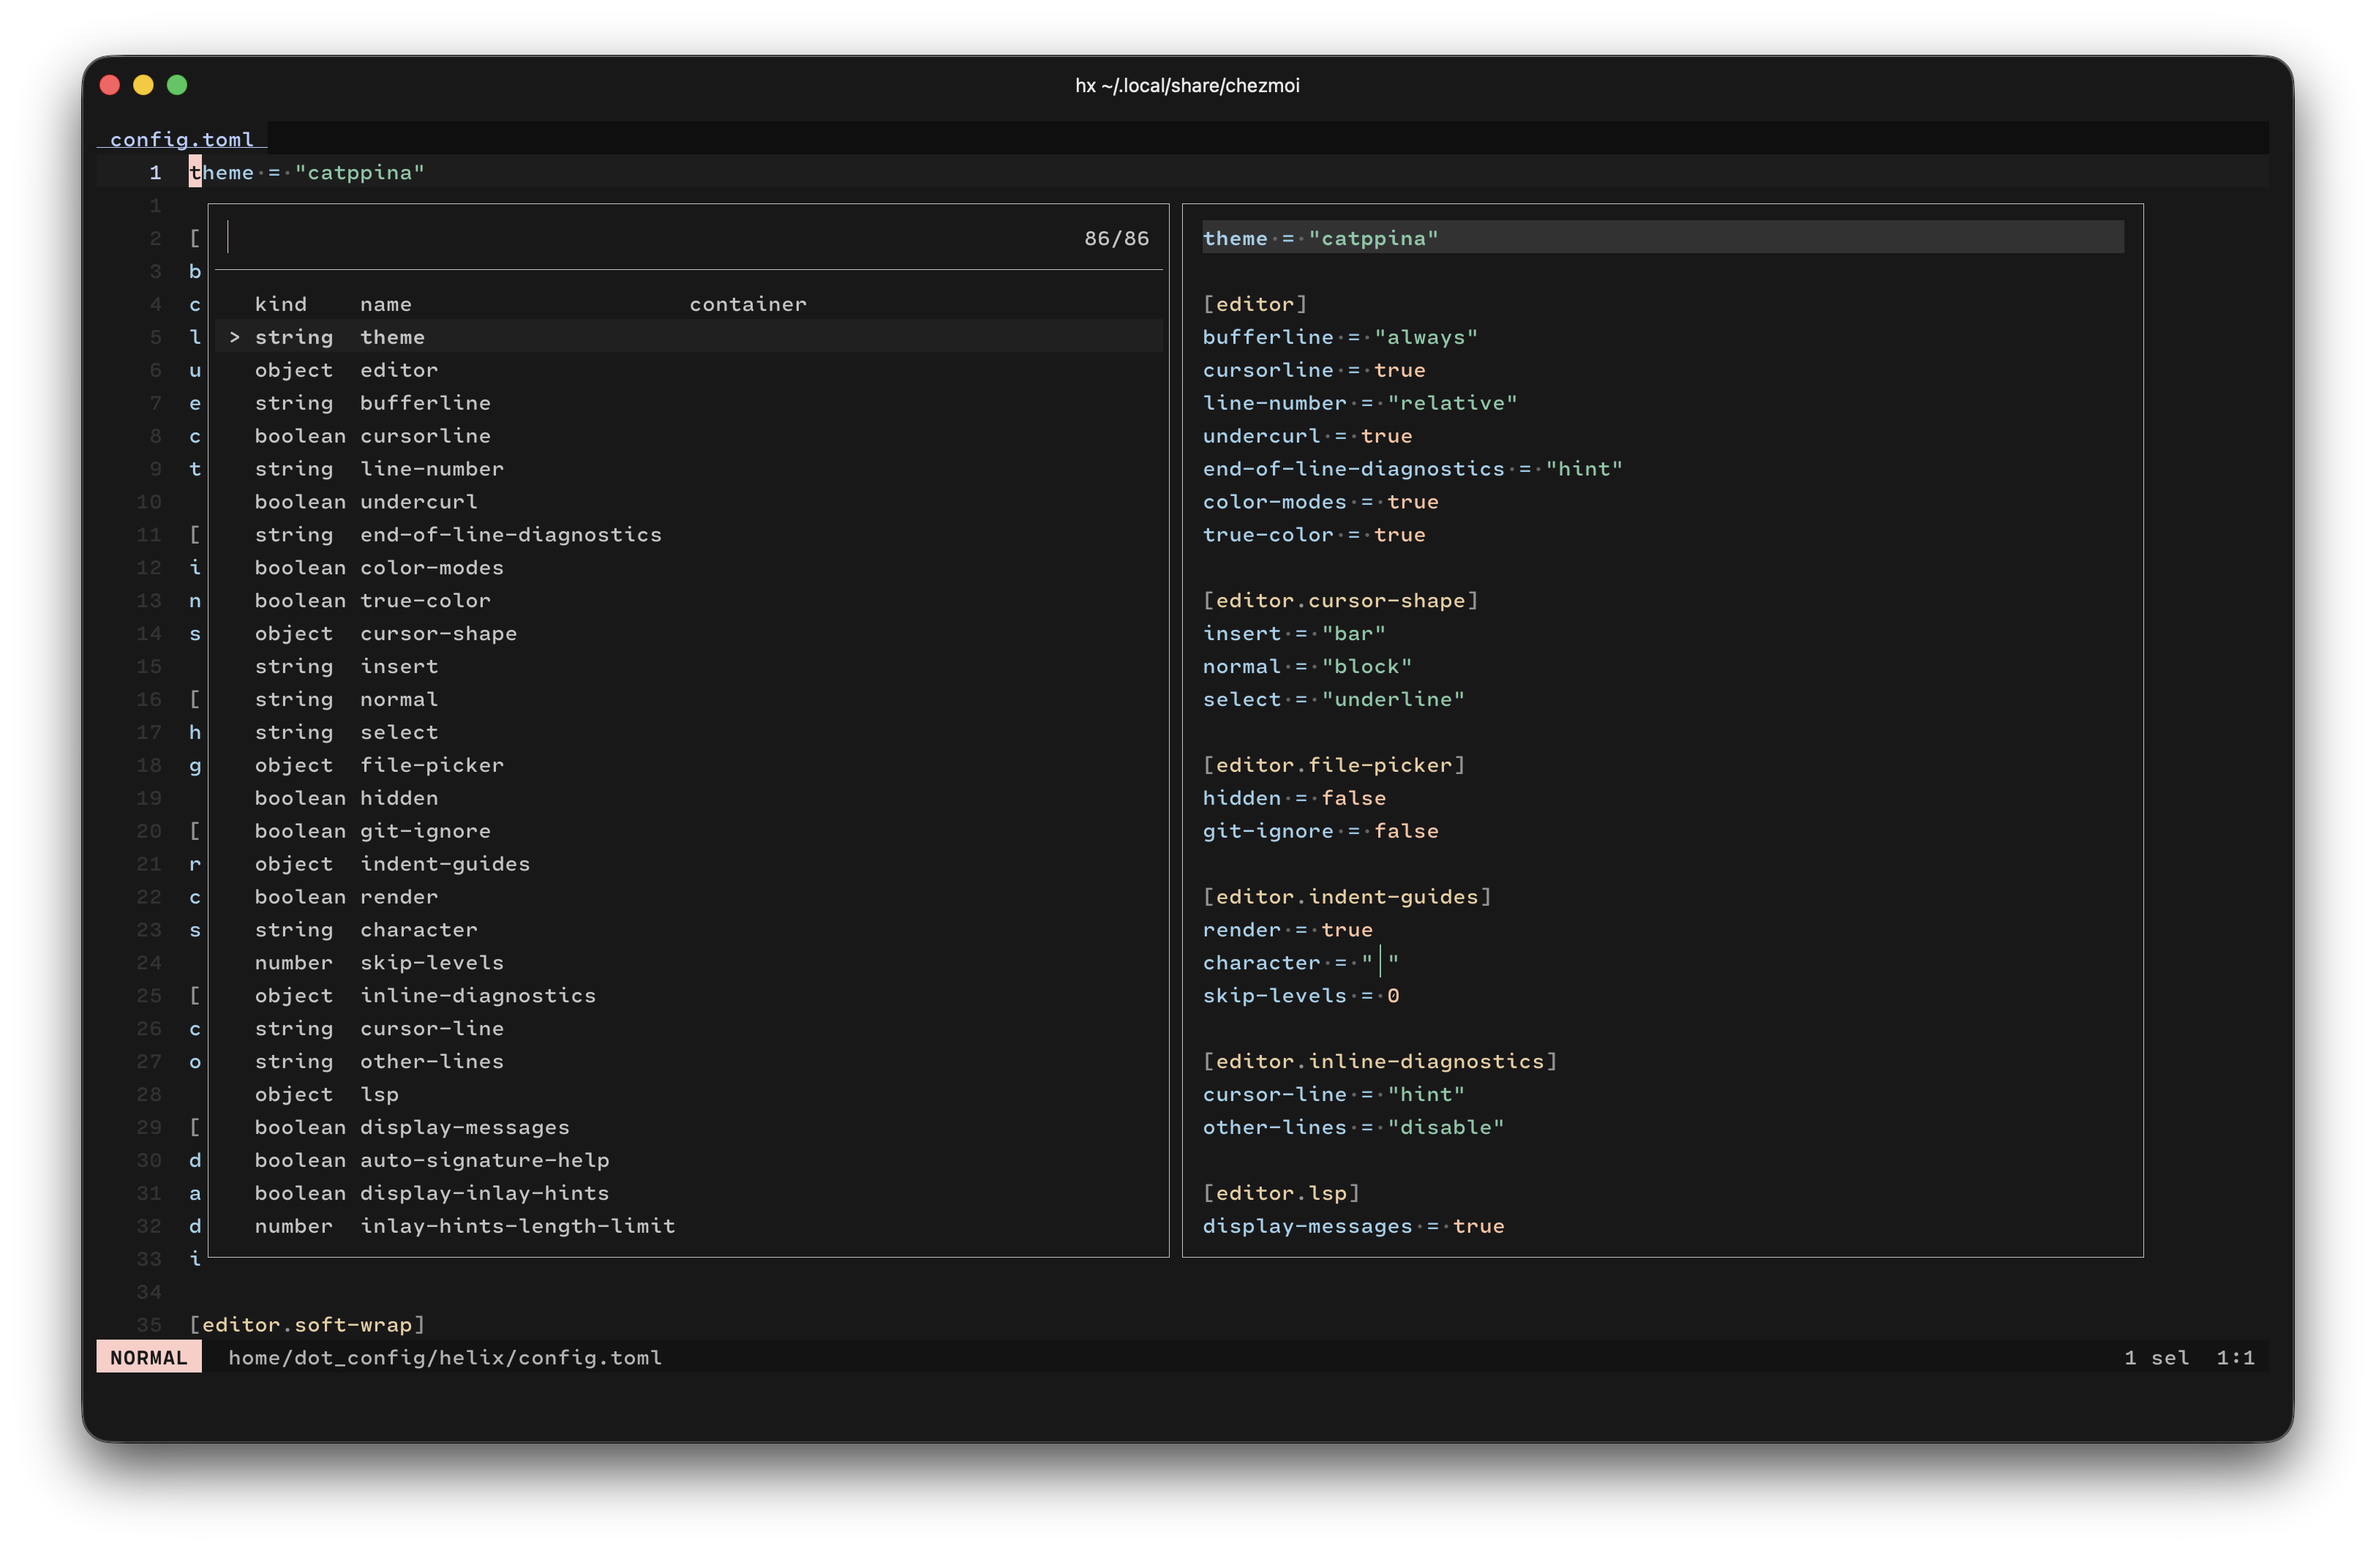
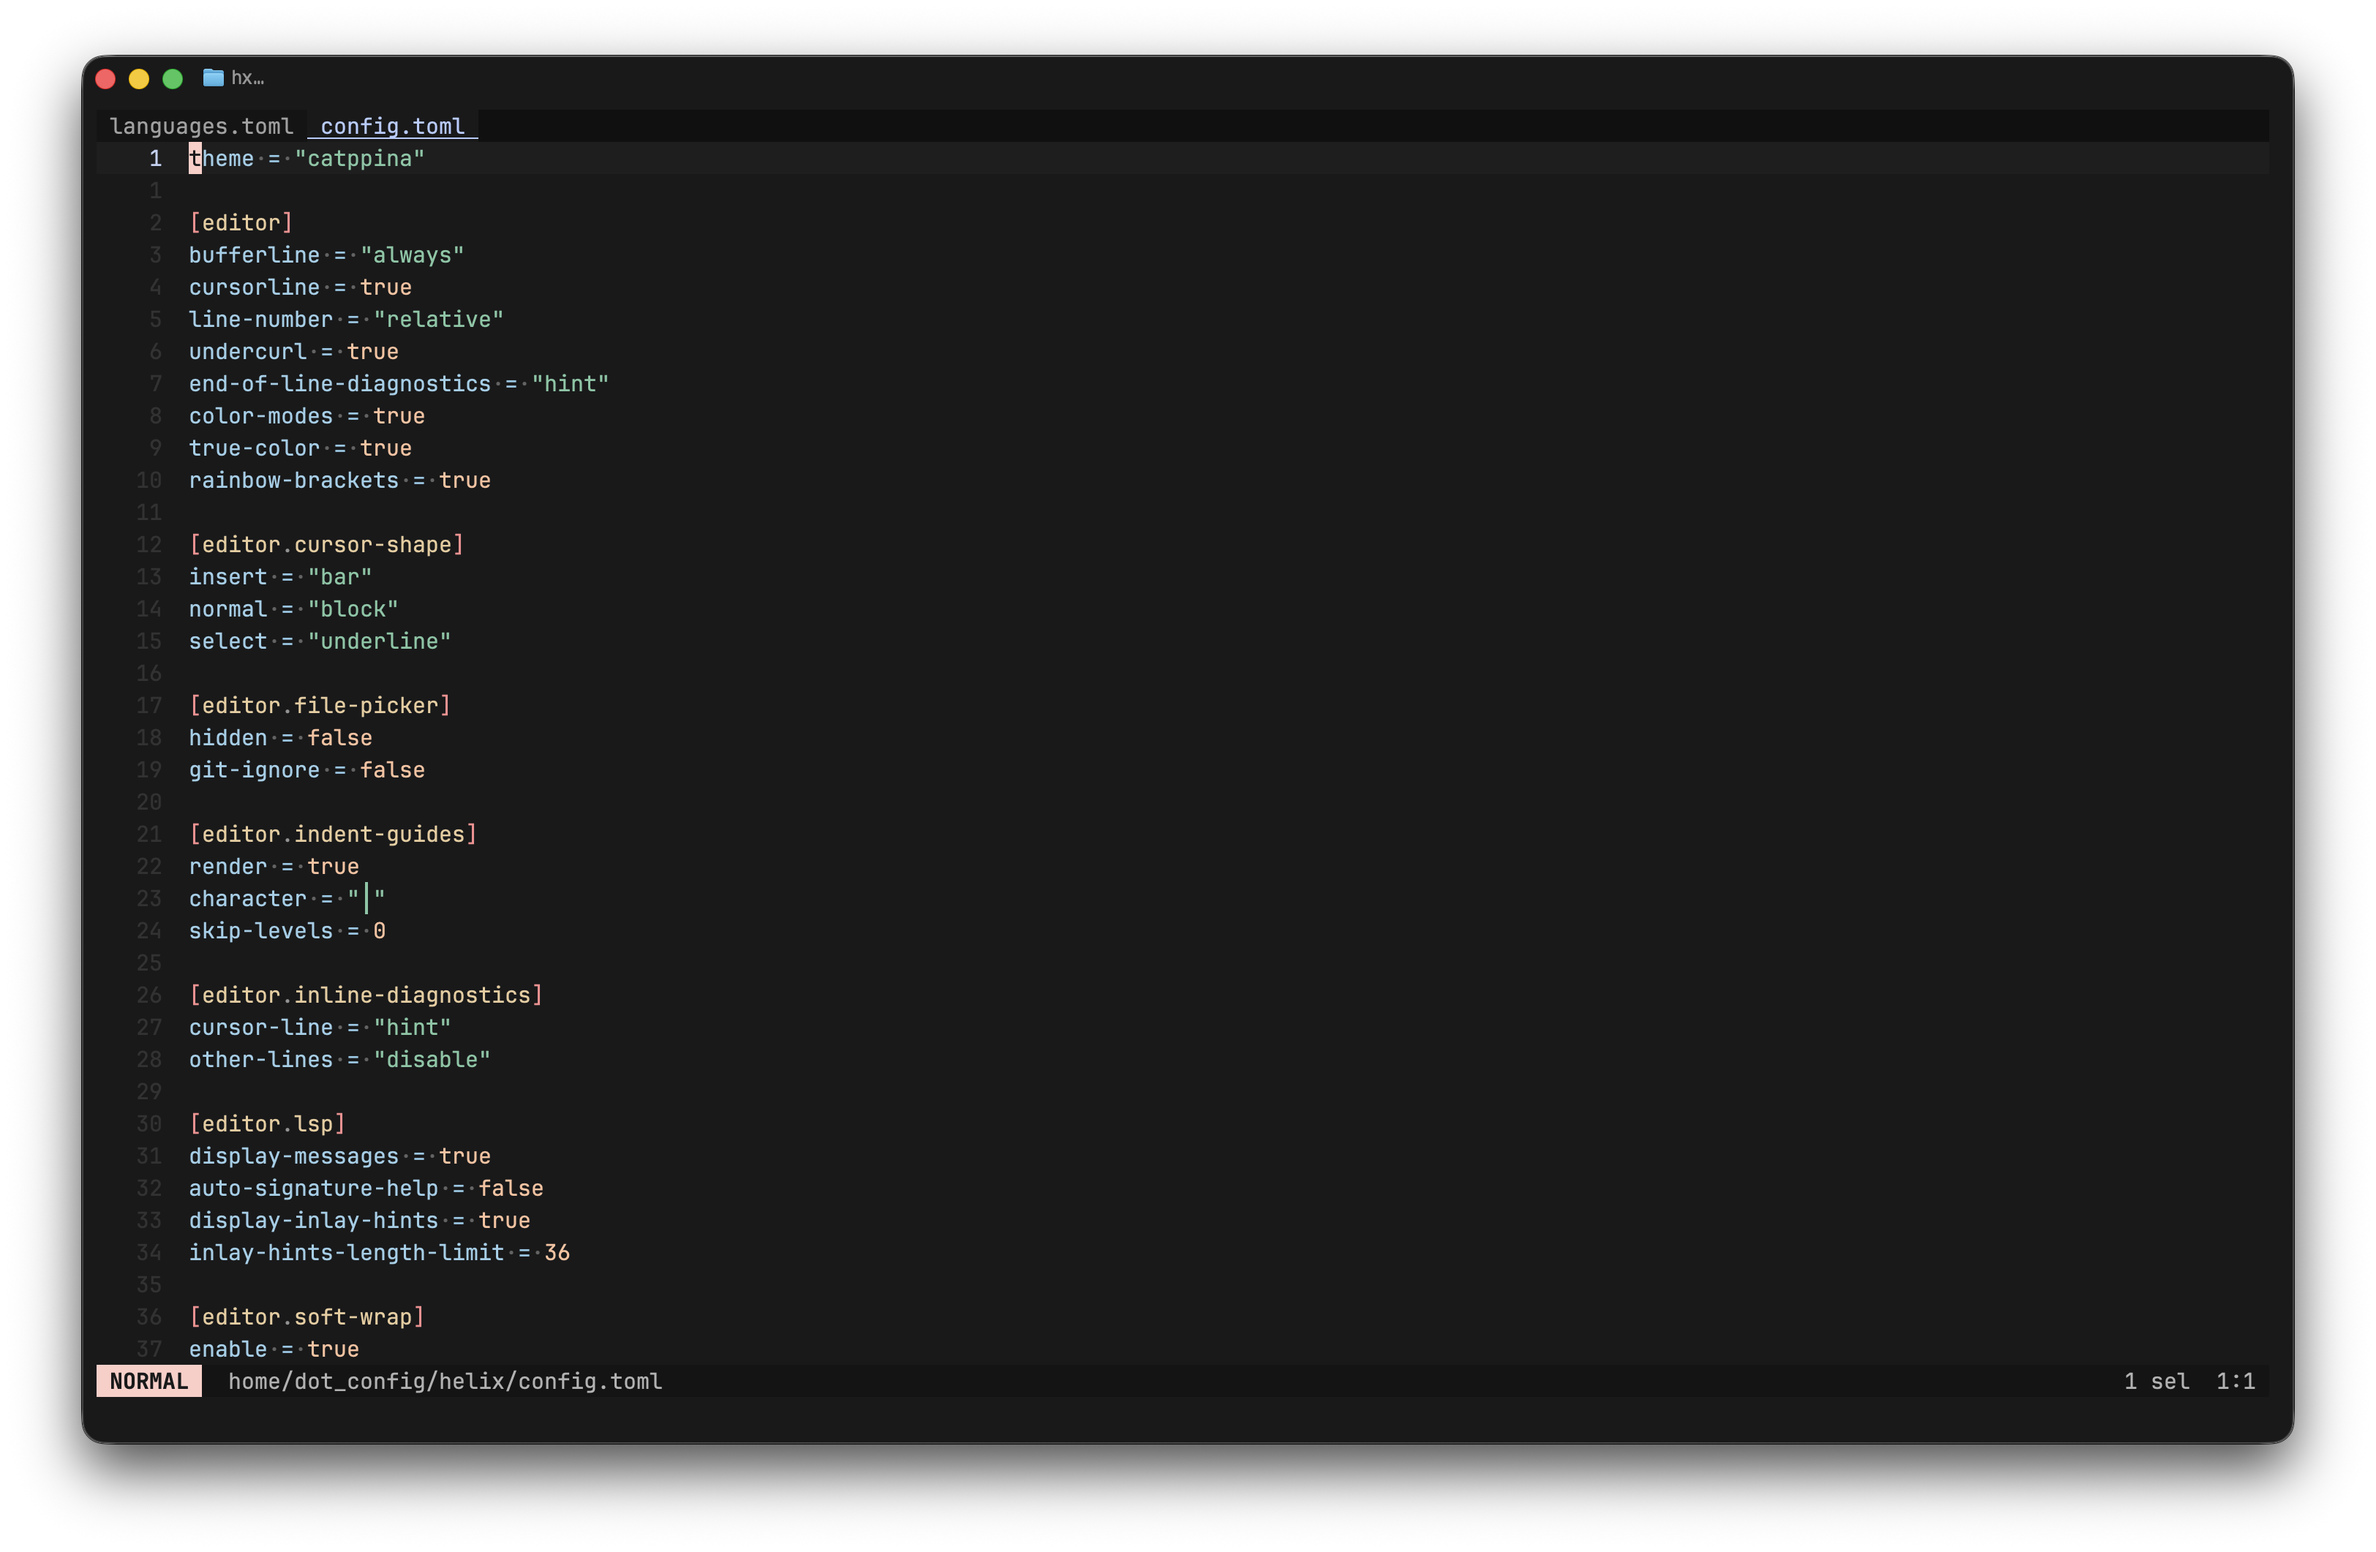
chore: updates

diff --git a/README.md b/README.md
@@ -9,9 +9,9 @@ My dotfiles for MacOS and Linux, managed with [chezmoi](https://www.chezmoi.io).
 ## Overview
 
 - Theme: [Catppina](https://github.com/pinanek/catppina) - My custom theme based on [Catpppuccin](https://catppuccin.com/).
-- Font: [Cartograph CF](https://connary.com/fonts/cartograph).
+- Font: [JetBrains Mono](https://www.jetbrains.com/lp/mono).
 - Terminal: [Ghostty](https://ghostty.org).
-- Editor: [Helix](https://helix-editor.com/).
+- Editor: [Helix](https://helix-editor.com).
 - Shell: [Zsh](https://www.zsh.org/).
 - Prompt: [Pure](https://github.com/sindresorhus/pure).
 - Dev env: [Mise](https://mise.jdx.dev/).
